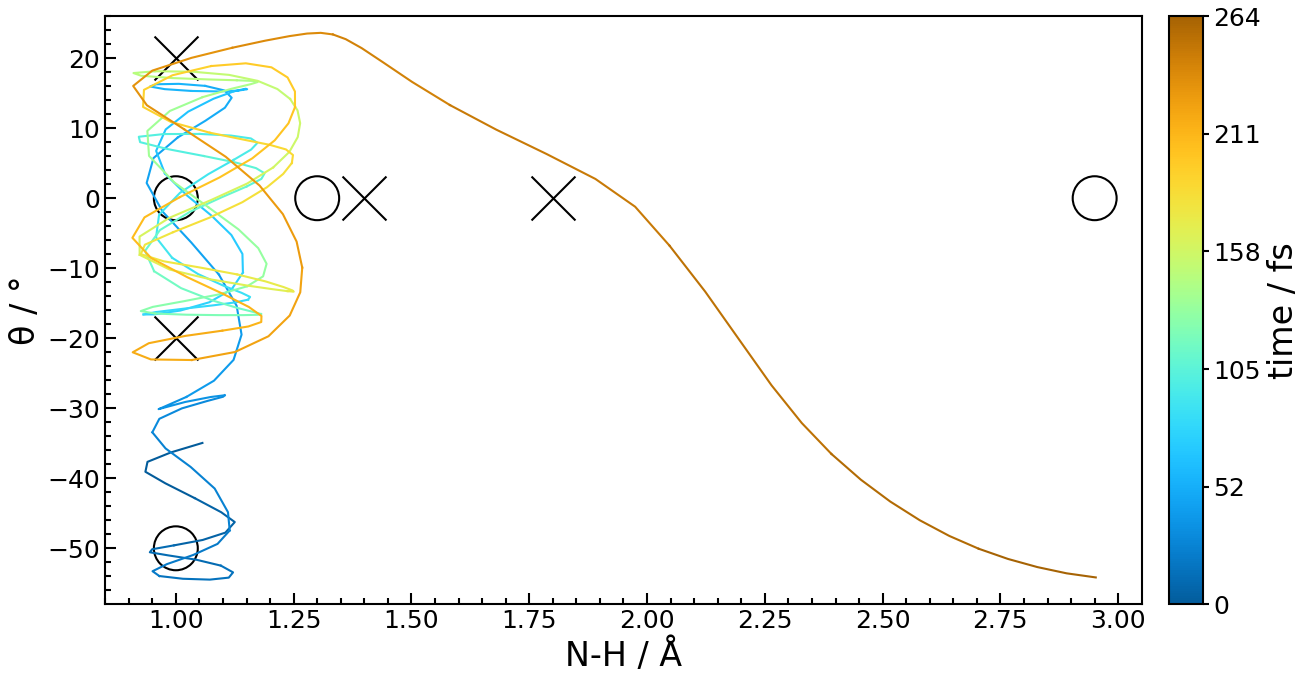
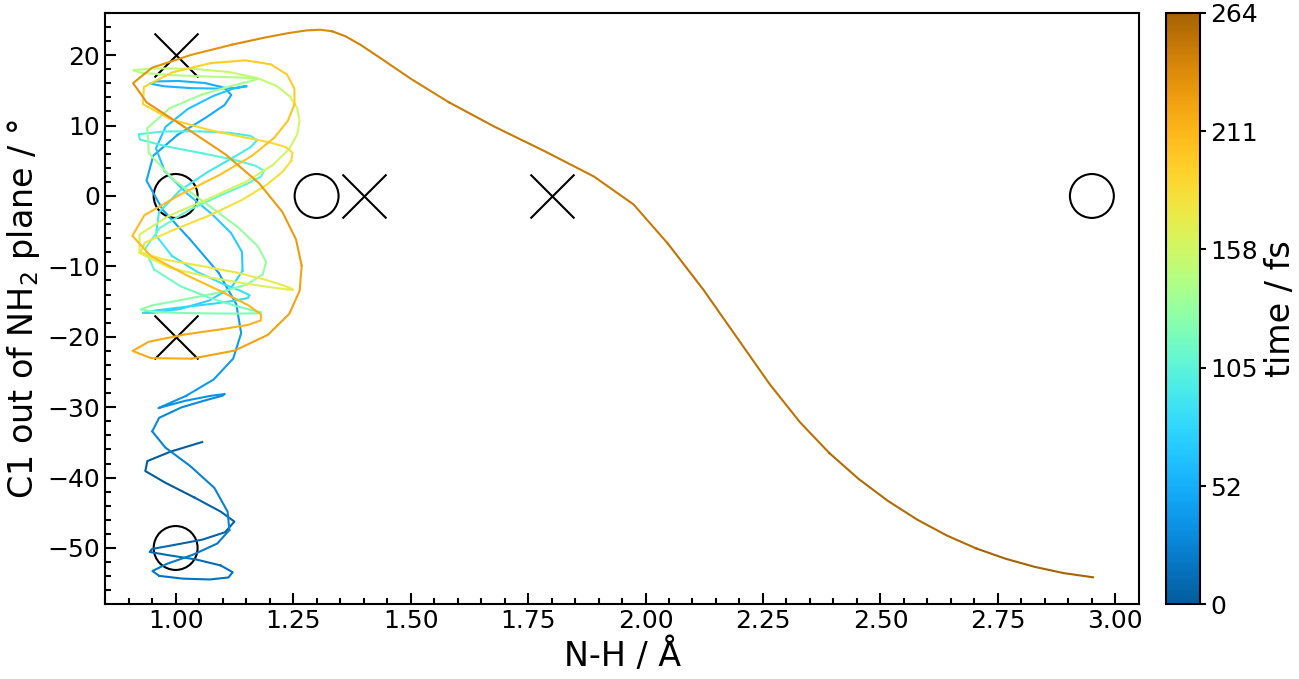
call C1 out of NH2 plane

diff --git a/hop/data/fast/plot_intcoord.py b/hop/data/fast/plot_intcoord.py
@@ -34,7 +34,7 @@ if __name__ == "__main__":
         ax.plot(q2[5 * i : 5 * i + 6], q1[5 * i : 5 * i + 6], color=color[i, :])
 
     ax.set_xlabel("N-H / Å", fontsize=24)
-    ax.set_ylabel("θ / °"  , fontsize=24)
+    ax.set_ylabel("C1 out of NH$_2$ plane / °"  , fontsize=24)
 
     ax.set_xlim( 0.85, 3.05)
     ax.set_ylim(-58.0, 26.0)
